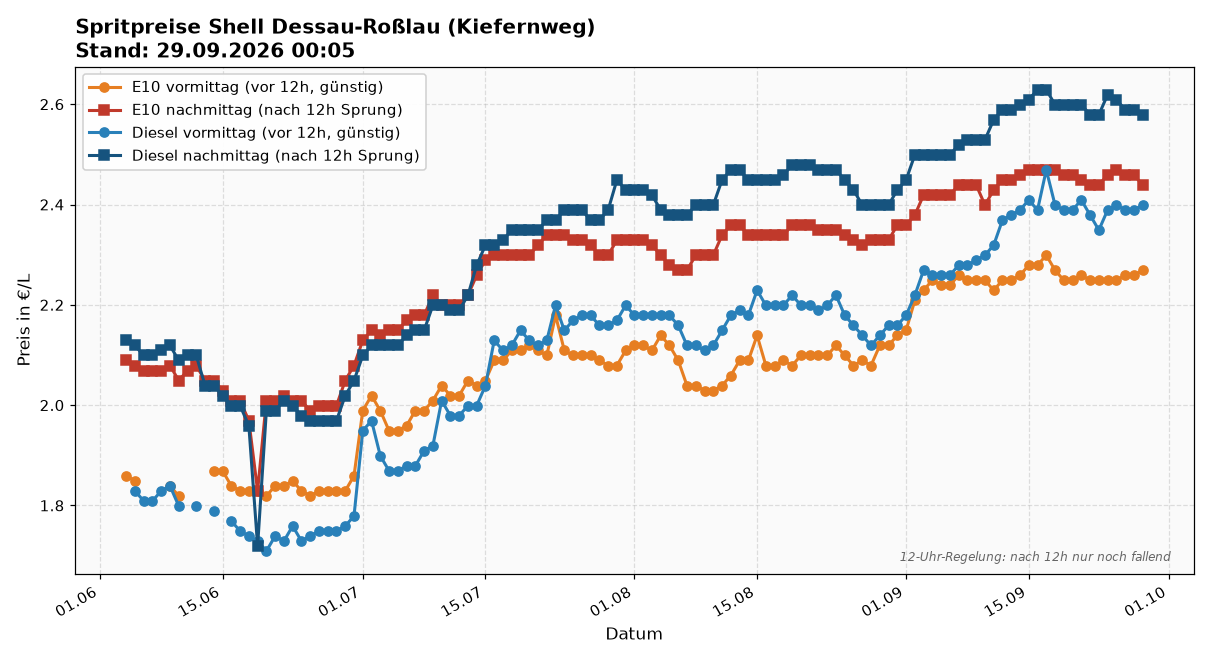
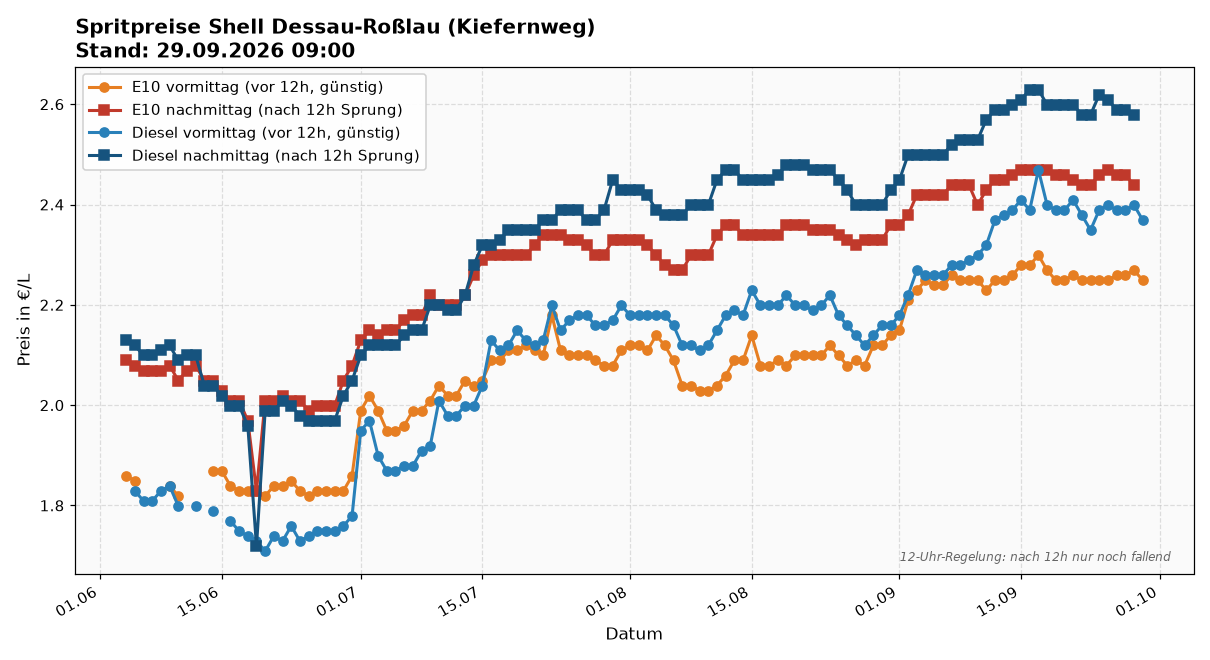
update: spritpreise 2026-09-29 09:00

diff --git a/index.html b/index.html
@@ -19,17 +19,17 @@
 </head>
 <body>
 <h1>🛢 Spritpreise Shell Dessau-Roßlau (Kiefernweg)</h1>
-<div class="sub">Source: Tankerkönig · Stand: 29.09.2026 00:05</div>
+<div class="sub">Source: Tankerkönig · Stand: 29.09.2026 09:00</div>
 
 <img src="latest.png" alt="Preisverlauf">
 
 <div class="latest">
   <strong>Heute (2026-09-29)</strong>
-  <div style="color:#888;font-style:italic;margin-bottom:0.5em;">Noch keine Messung heute — cron läuft 09:00 + 12:10.</div>
+  
   <table>
-    <tr><td>E10 vormittag</td><td class="price">— €</td></tr>
+    <tr><td>E10 vormittag</td><td class="price">2.249 €</td></tr>
     <tr><td>E10 nachmittag</td><td class="price">— €</td></tr>
-    <tr><td>Diesel vormittag</td><td class="price">— €</td></tr>
+    <tr><td>Diesel vormittag</td><td class="price">2.369 €</td></tr>
     <tr><td>Diesel nachmittag</td><td class="price">— €</td></tr>
   </table>
 </div>
